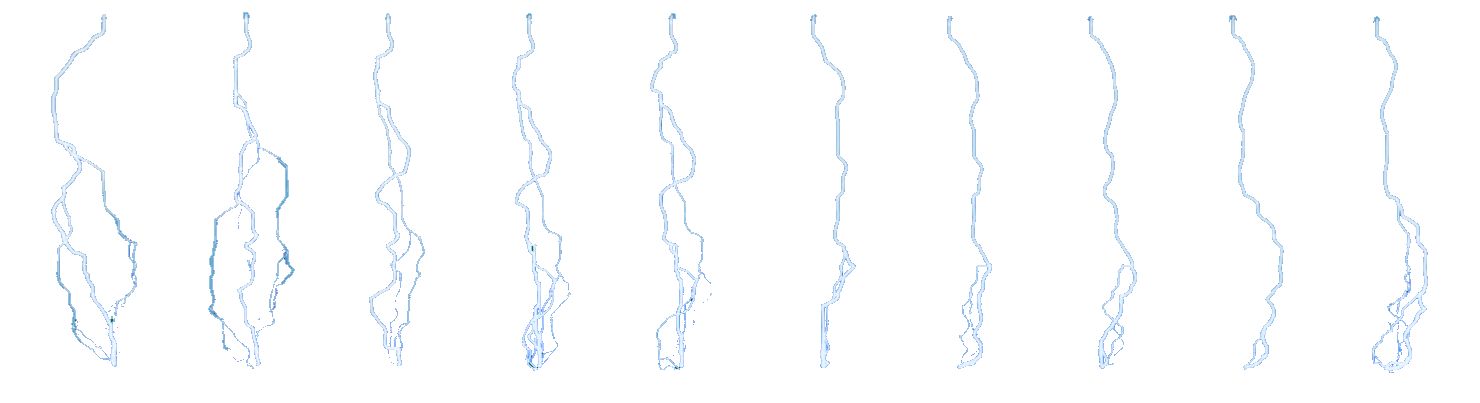
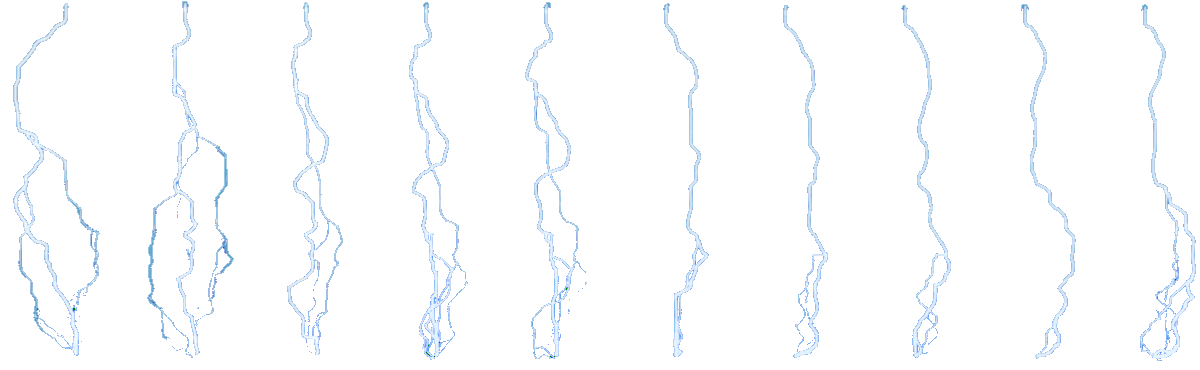
Fix light related examples

diff --git a/Etyllica/src/br/com/etyllica/effects/light/LightSource.java b/Etyllica/src/br/com/etyllica/effects/light/LightSource.java
@@ -19,10 +19,6 @@ public class LightSource extends GeometricLayer {
 		super(x, y);
 		w = intensity;
 		h = intensity;
-		
-		java.awt.geom.Point2D center = new java.awt.geom.Point2D.Float(x+w/2, y+h/2);
-		
-		rgp = new RadialGradientPaint(center, w/2, fractions, colors);
 	}
 	
 	public int getIntensity() {
@@ -32,6 +28,10 @@ public class LightSource extends GeometricLayer {
 	public void drawLight(Graphic g) {
 
 		g.setComposite(AlphaComposite.getInstance(AlphaComposite.SRC_IN, 1.0f));
+		
+		java.awt.geom.Point2D center = new java.awt.geom.Point2D.Float(x+w/2, y+h/2);
+		
+		rgp = new RadialGradientPaint(center, w/2, fractions, colors);
                         
         g.setPaint(rgp);
         

diff --git a/Etyllica/src/examples/etyllica/fx/application/LightningApplication.java b/Etyllica/src/examples/etyllica/fx/application/LightningApplication.java
@@ -11,18 +11,18 @@ import br.com.etyllica.effects.Effect;
 
 public class LightningApplication extends Application{
 
+	private Effect lightning;
+	
 	public LightningApplication(int w, int h) {
 		super(w, h);
 	}
-
-	private Effect lightning;
 
 	@Override
 	public void load() {
 		
 		loading = 10;
 		
-		lightning = new Effect(300, 110, 148, 403, "lightning.png");
+		lightning = new Effect(300, 110, 120, 370, "lightning.png");
 		lightning.setFrames(10);
 		lightning.setSpeed(100);
 				
